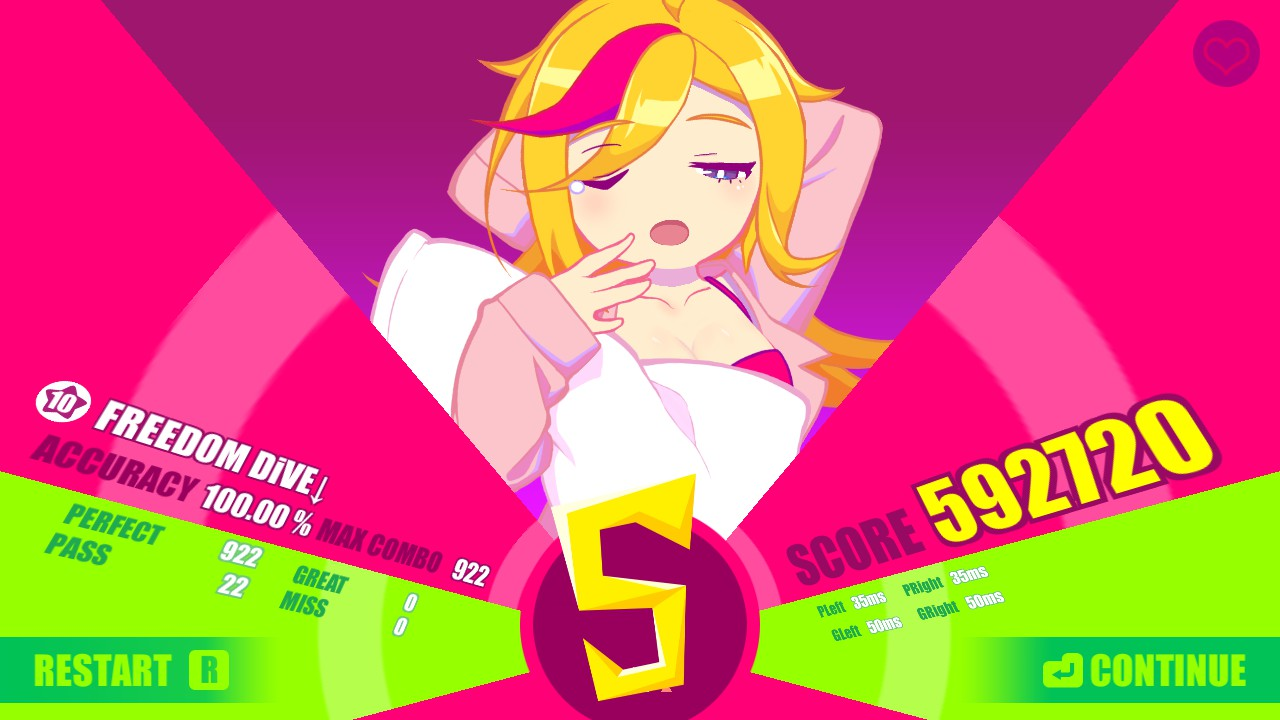
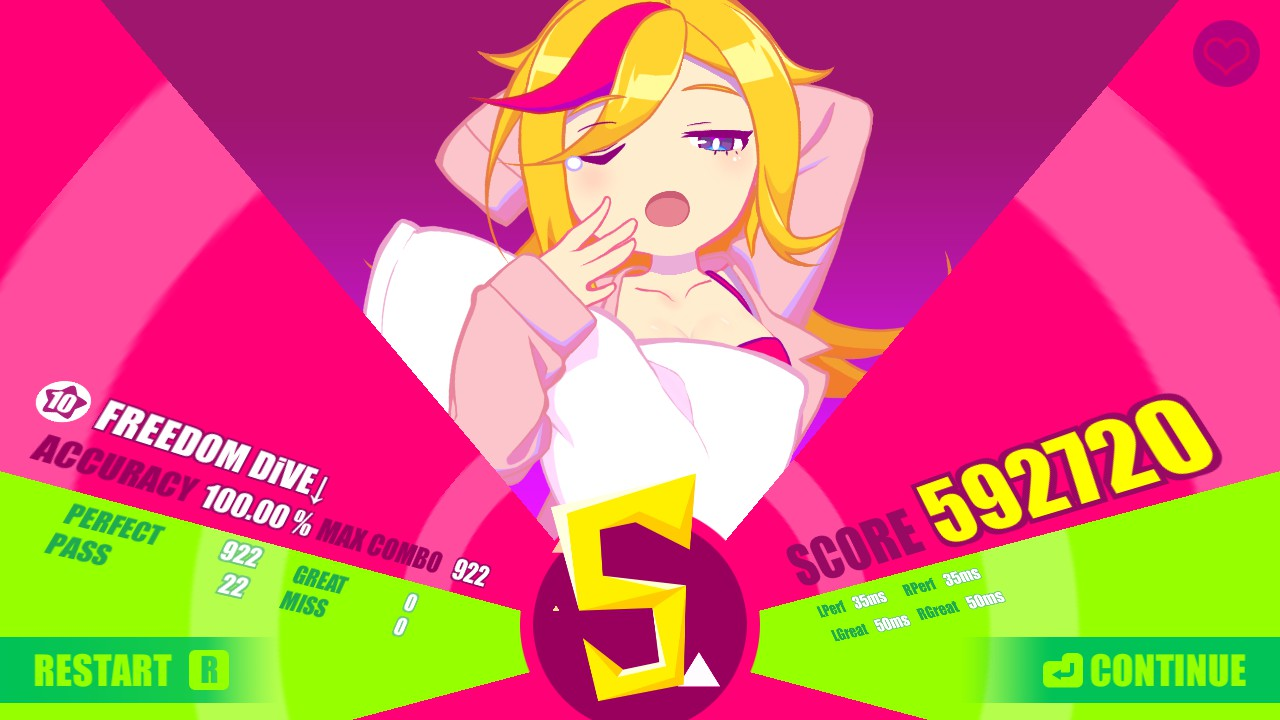
Changed victory screen text

diff --git a/Managers/SettingsManager.cs b/Managers/SettingsManager.cs
@@ -29,19 +29,19 @@ internal static class SettingsManager
         _isEnabled = mainCategory.CreateEntry(nameof(IsEnabled), true);
 
         GreatLeftRange = new GreatRangeClass("GreatLeftRange",
-            "GLeft",
+            "LGreat",
             mainCategory);
 
         PerfectLeftRange = new PerfectRangeClass("PerfectLeftRange",
-            "PLeft",
+            "LPerf",
             mainCategory);
 
         PerfectRightRange = new PerfectRangeClass("PerfectRightRange",
-            "PRight",
+            "RPerf",
             mainCategory);
 
         GreatRightRange = new GreatRangeClass("GreatRightRange",
-            "GRight",
+            "RGreat",
             mainCategory);
 
         string[] messages =
@@ -53,7 +53,7 @@ internal static class SettingsManager
             $"{GreatRightRange.GetDescription()}"
         ];
 
-        foreach (var message in messages) Melon<Main>.Logger.Msg($"{message}");
+        Melon<Main>.Logger.Msg(string.Join("\n", messages));
     }
 
     internal abstract class RangeClass
@@ -119,7 +119,7 @@ internal static class SettingsManager
 
         internal string GetDescription()
         {
-            return $"{Name}: {ToString()}";
+            return $"{Name}: {GetRange()}";
         }
     }
 

diff --git a/README.md b/README.md
@@ -129,6 +129,11 @@ Your timing window will look like this:
 
 ### Victory screen custom ranges visualizer
 
+* `LPerf` = `PerfectLeftRange`
+* `LGreat` = `GreatLeftRange`
+* `RPerf` = `PerfectRightRange`
+* `RGreat` = `GreatRightRange`
+
 ![VictoryRanges.jpg](Media/VictoryRanges.jpg)
 
 ![VictoryRangesHigh.jpg](Media/VictoryRangesHigh.jpg)
